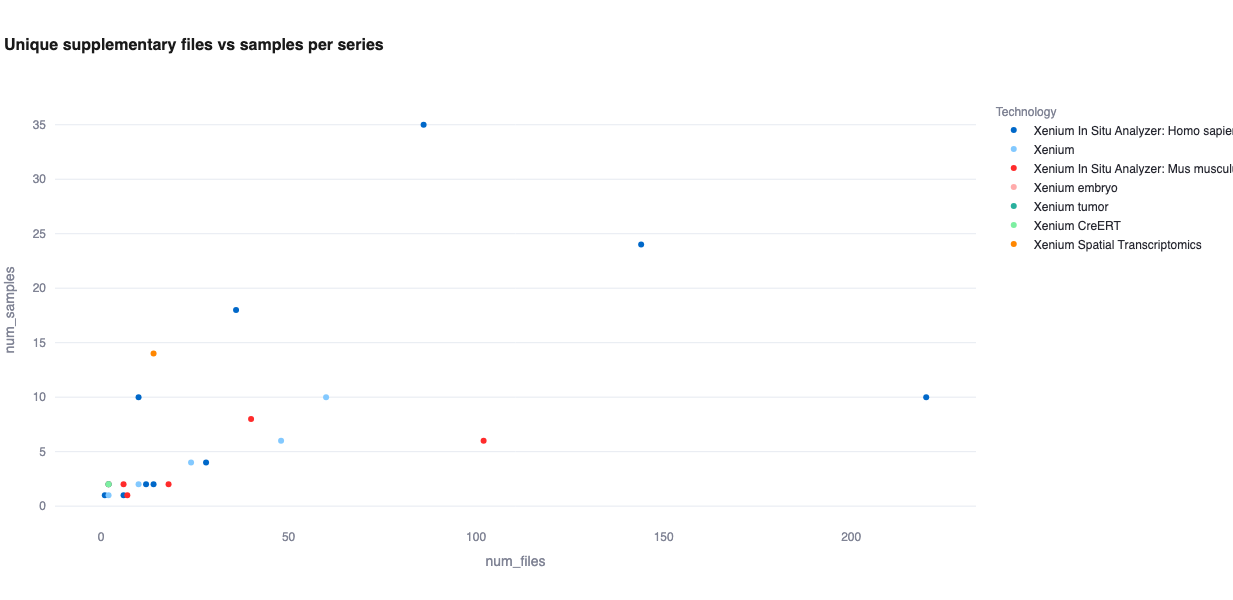
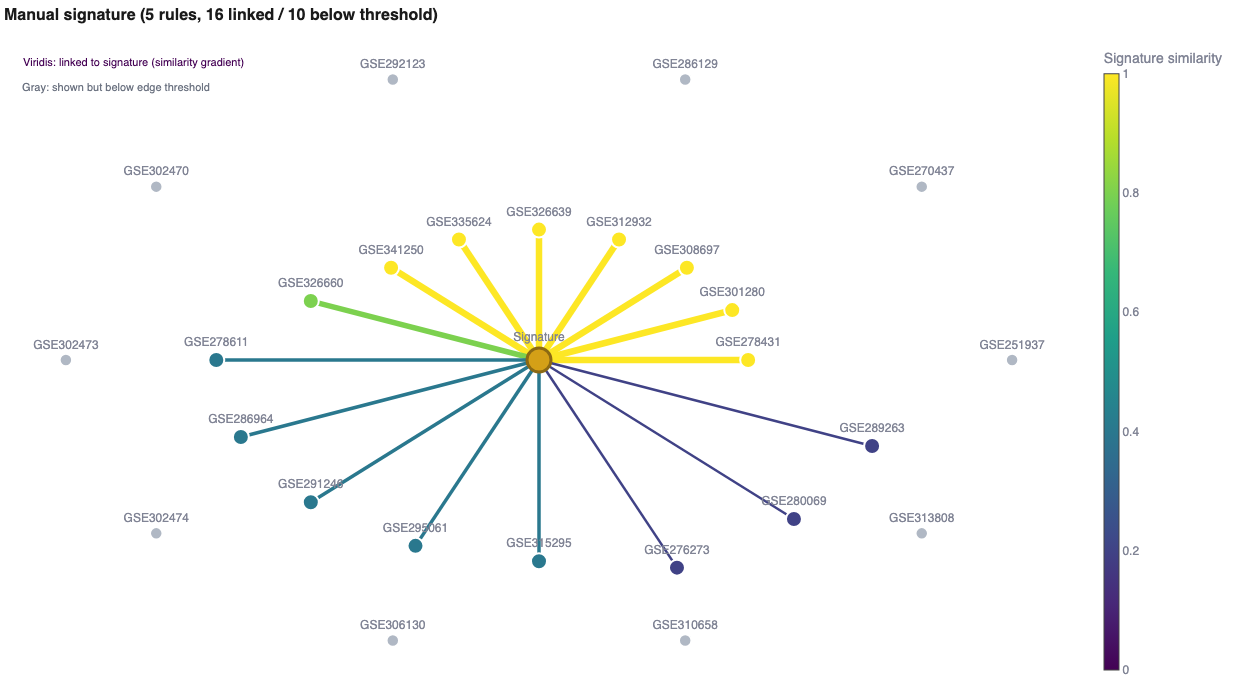
Docs: revisa e detalha o texto do worked example 2

diff --git a/doc/usage/worked_example.md b/doc/usage/worked_example.md
@@ -1,6 +1,6 @@
 # Worked Example: End-to-End GEOScouter Run
 
-This guide provides a reproducible end-to-end workflow so new collaborators can test GEOScouter using a fixed input and expected outputs. 
+This guide provides a reproducible end-to-end workflow to test GEOScouter using a fixed input and expected outputs. 
 
 ### Pinned Parameters
 
@@ -42,7 +42,7 @@ In this section, you can generate plots to visually profile the filtered dataset
 
 ### File vs samples
 Compares the sample count against unique supplementary files so we can check if the number of samples is proportional to the number of files.
-![Complexity](img/unique_supplementary_files_vs_samples_pe.png)
+![Files_vs_sample](img/sup_files_per_sample_plot.png)
 
 ### Similarity network (Supervised file-structure signature network)
 1. Select **Manual file types** as the signature source.
@@ -51,7 +51,7 @@ Compares the sample count against unique supplementary files so we can check if 
    ![Creating Signature](img/creating_signature.png)
 4. Click **Apply signature & show network**. Slide the minimum similarity for creating an edge to `0.20`.
    ![Signature Network](img/similarity_plot.png)
-5. Moving down a bit, the **Comparison to signature** table details which specific rules matched or missed for each GSE.
+5. The **Comparison to signature** table details which specific rules matched or missed for each GSE.
    ![Comparison to Signature](img/comparison_to_signature.png)
 
 ## Step 4 — Select specific GSEs
